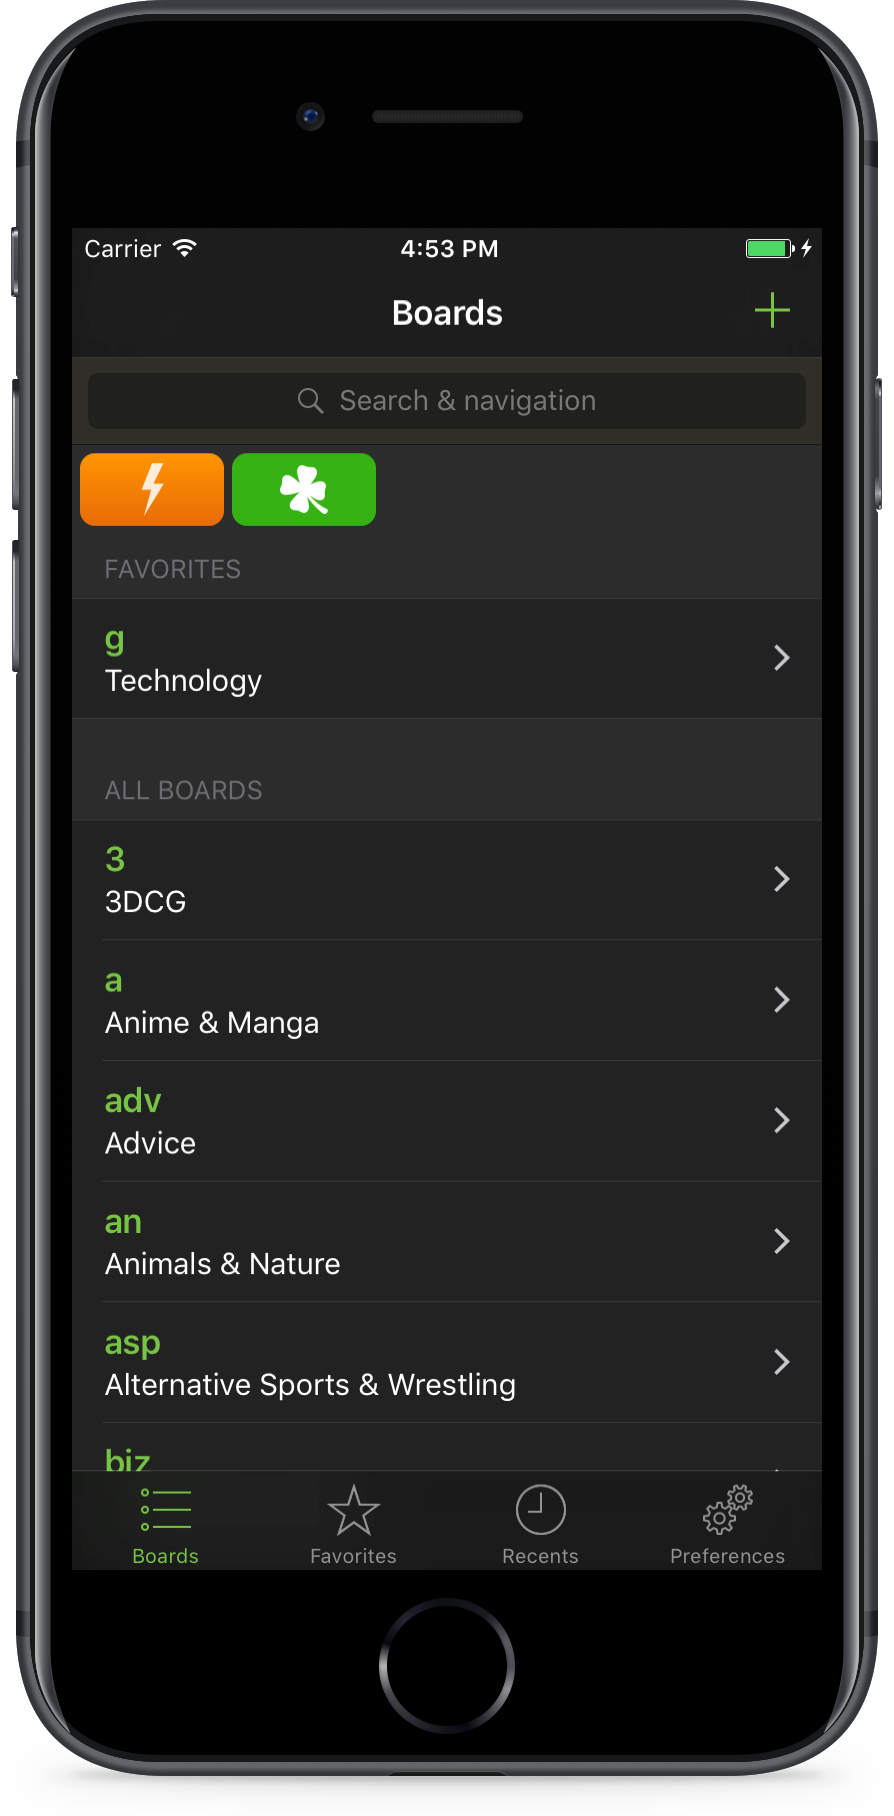
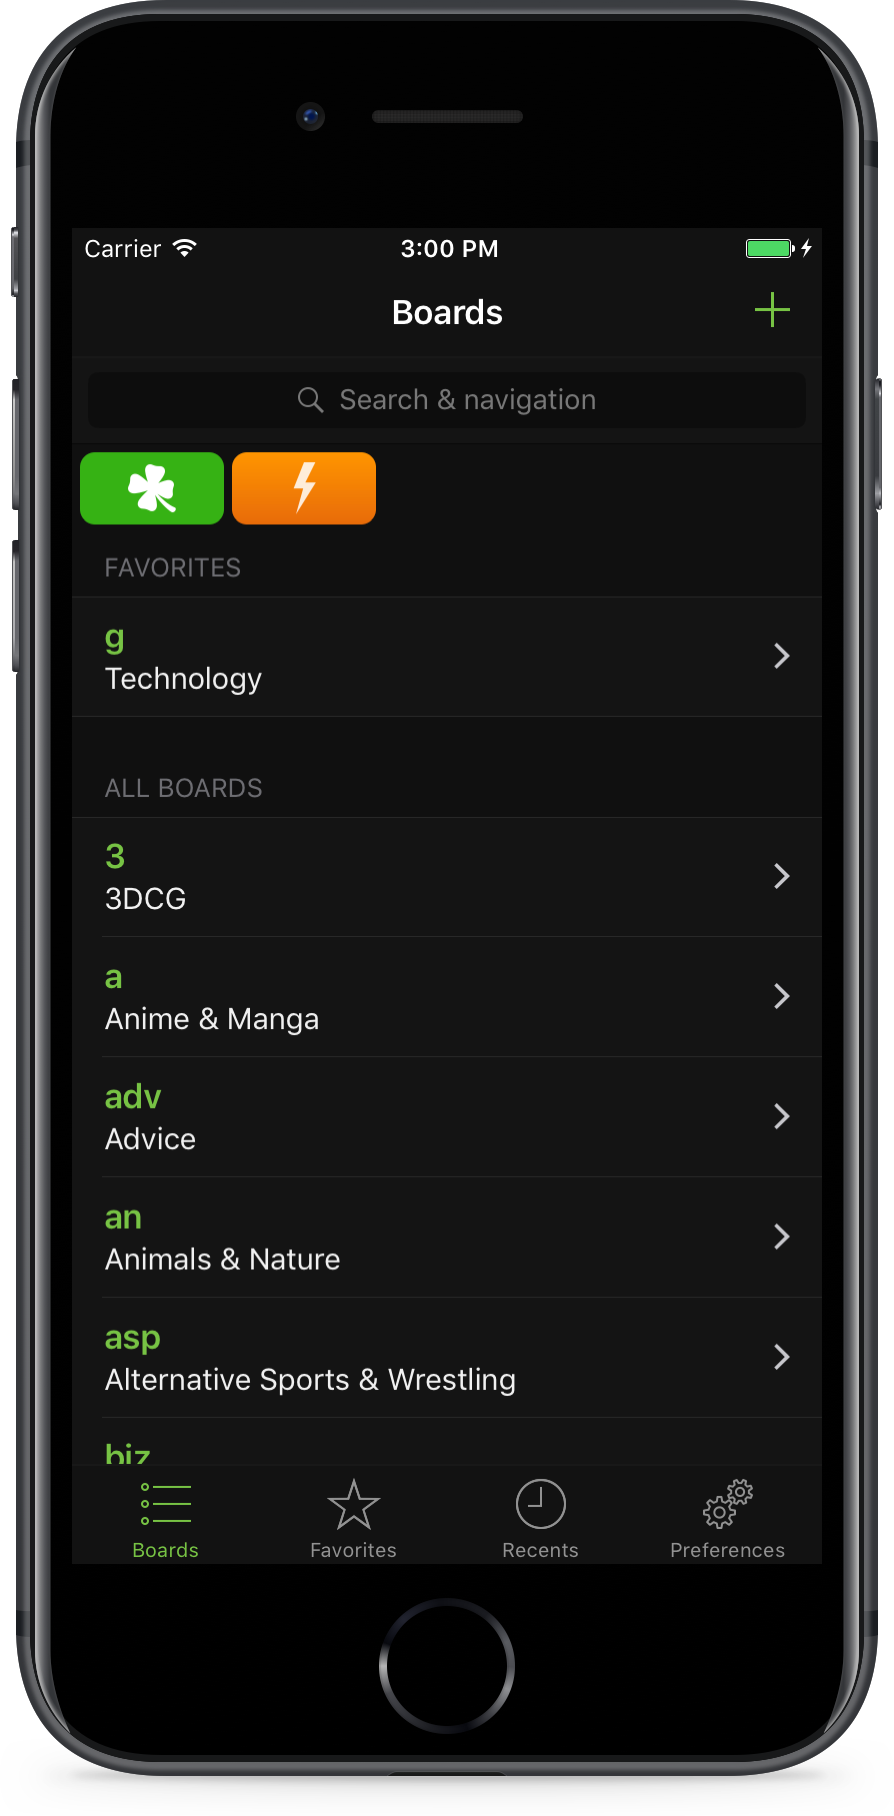
Layout fixes and new screenshot

diff --git a/index.css b/index.css
@@ -63,7 +63,6 @@ a:hover {
   background: url('img/phone.png') no-repeat right center;
   background-size: contain;
   max-height: 720px;
-  min-height: 360px;
   margin-right: 40px;
   flex-grow: 1;
 }
@@ -94,7 +93,7 @@ a:hover {
   .info {
     justify-content: flex-start;
     padding-left: 40px;
-    margin-bottom: 40px;
+    padding-bottom: 40px;
   }
 }
 
@@ -105,5 +104,15 @@ a:hover {
 
   h2 {
     font-size: 1.3em;
+  }
+}
+
+@media screen and (max-height: 500px){
+  .preview {
+    padding: 10px 0;
+  }
+
+  .info {
+    padding-top: 20px; 
   }
 }
